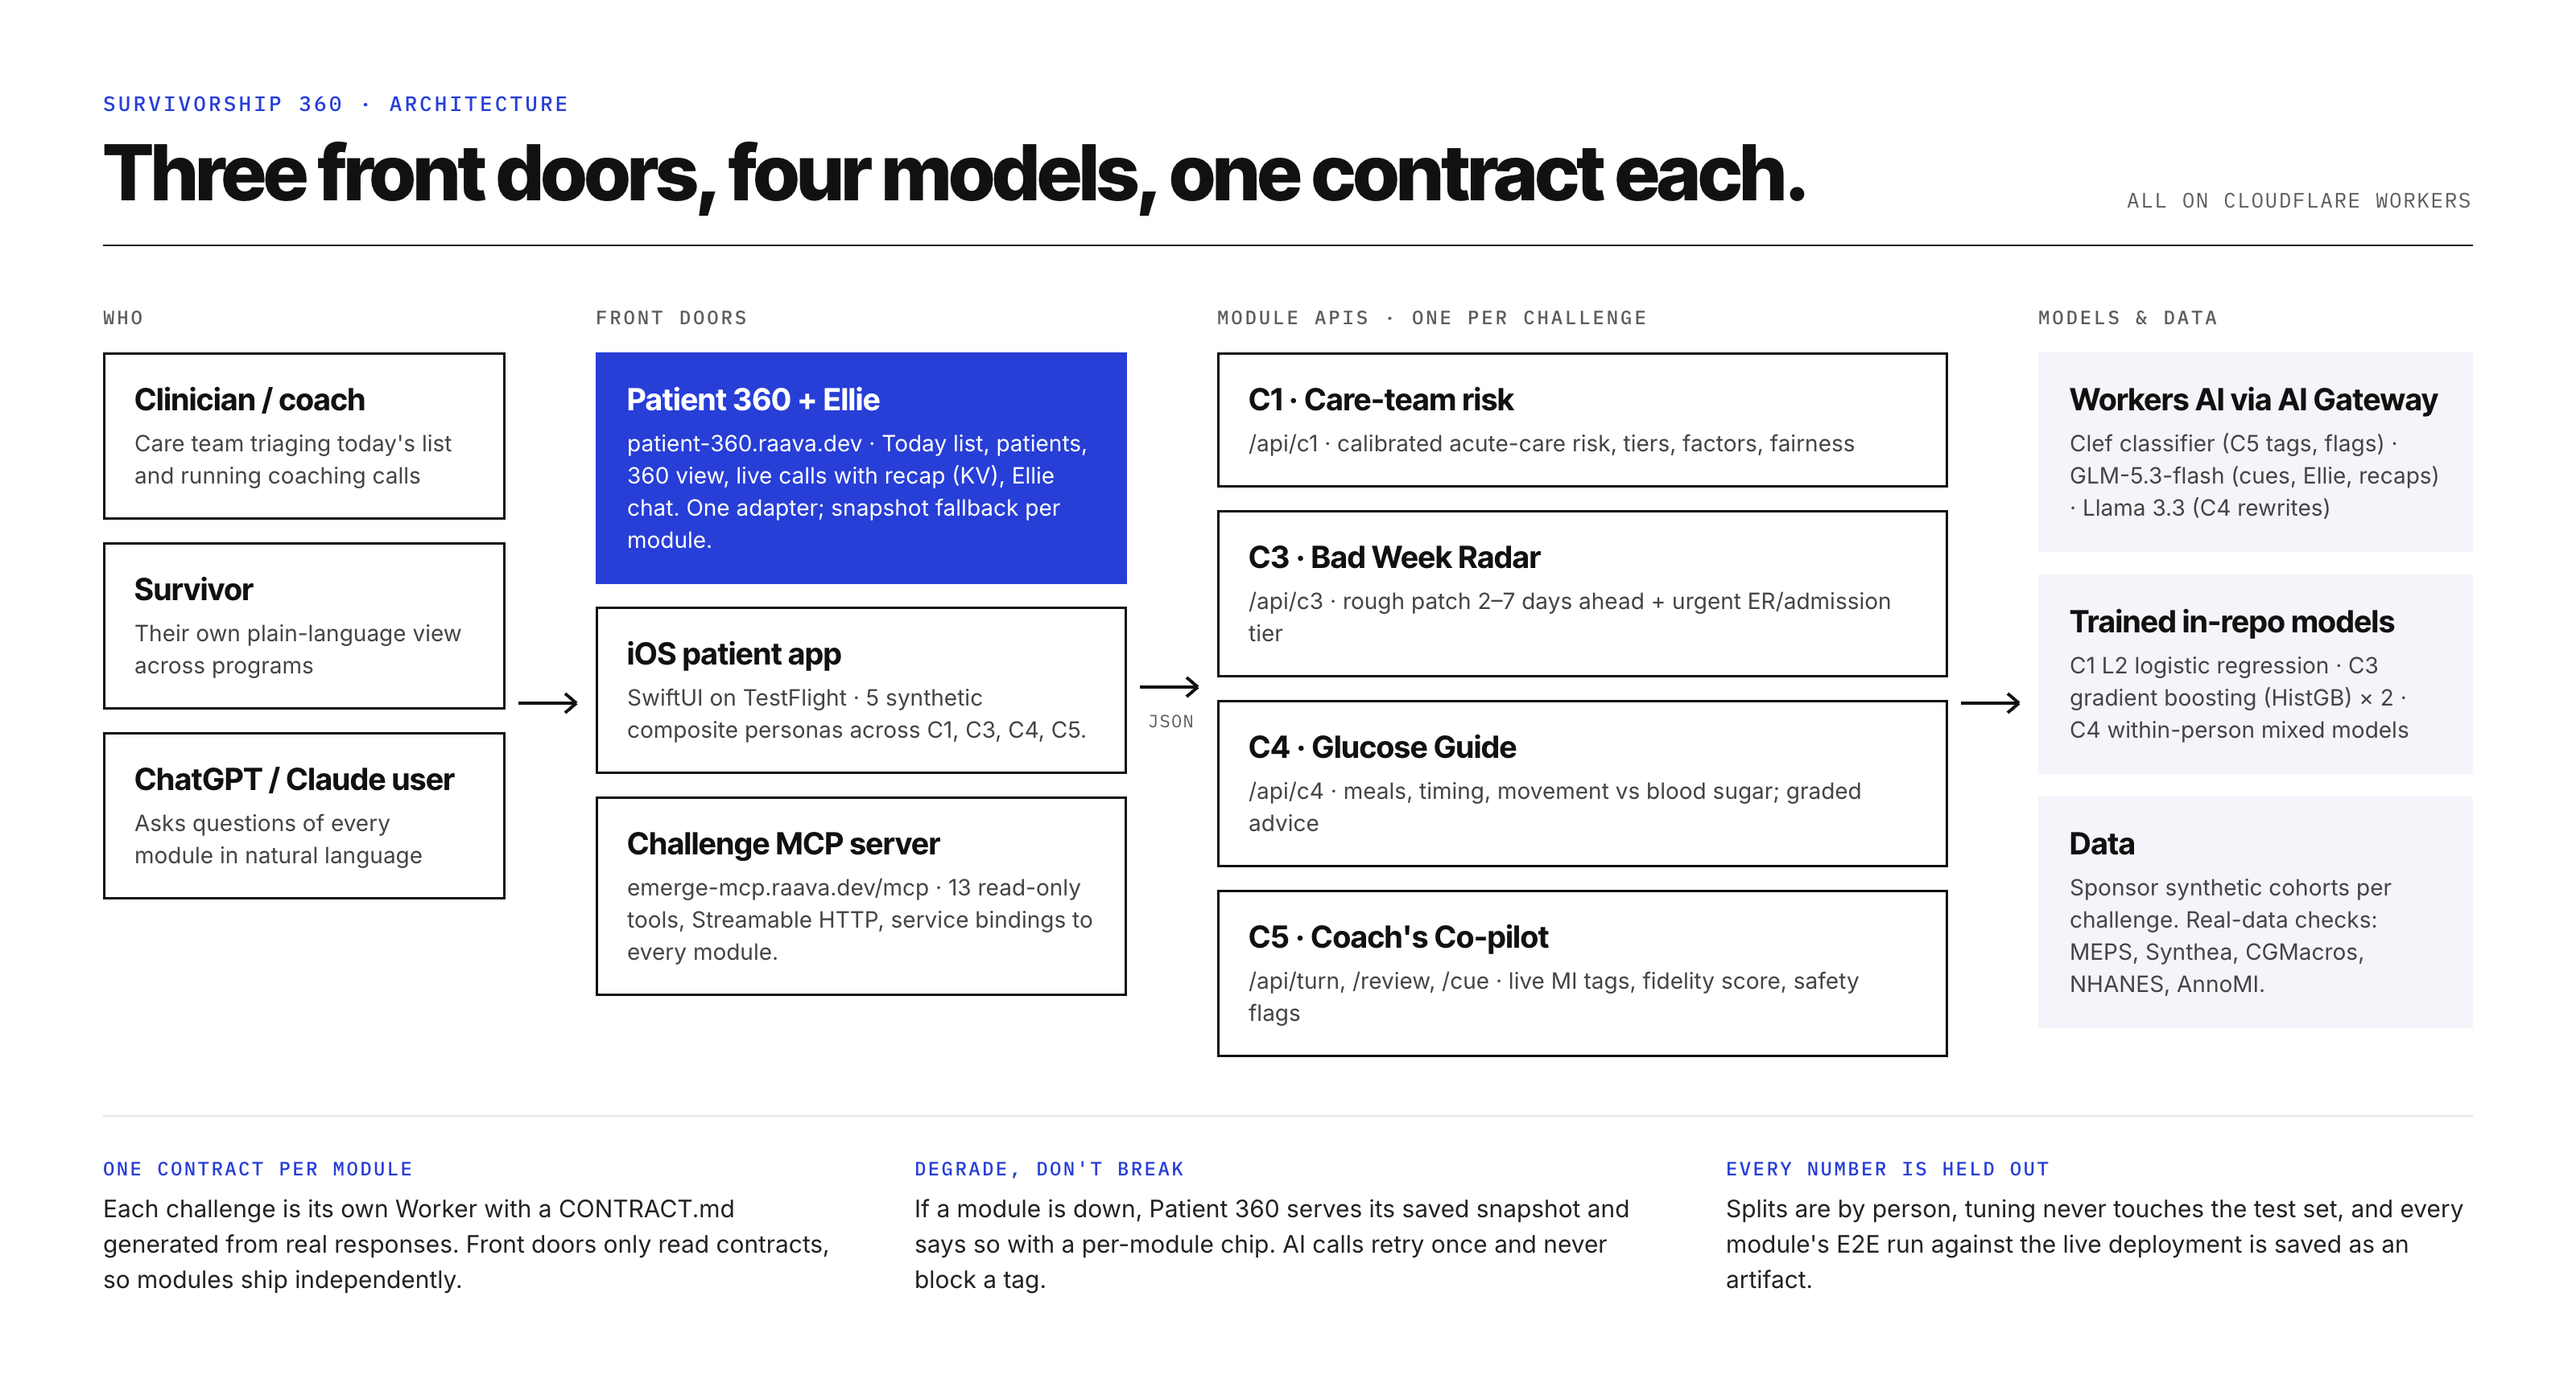
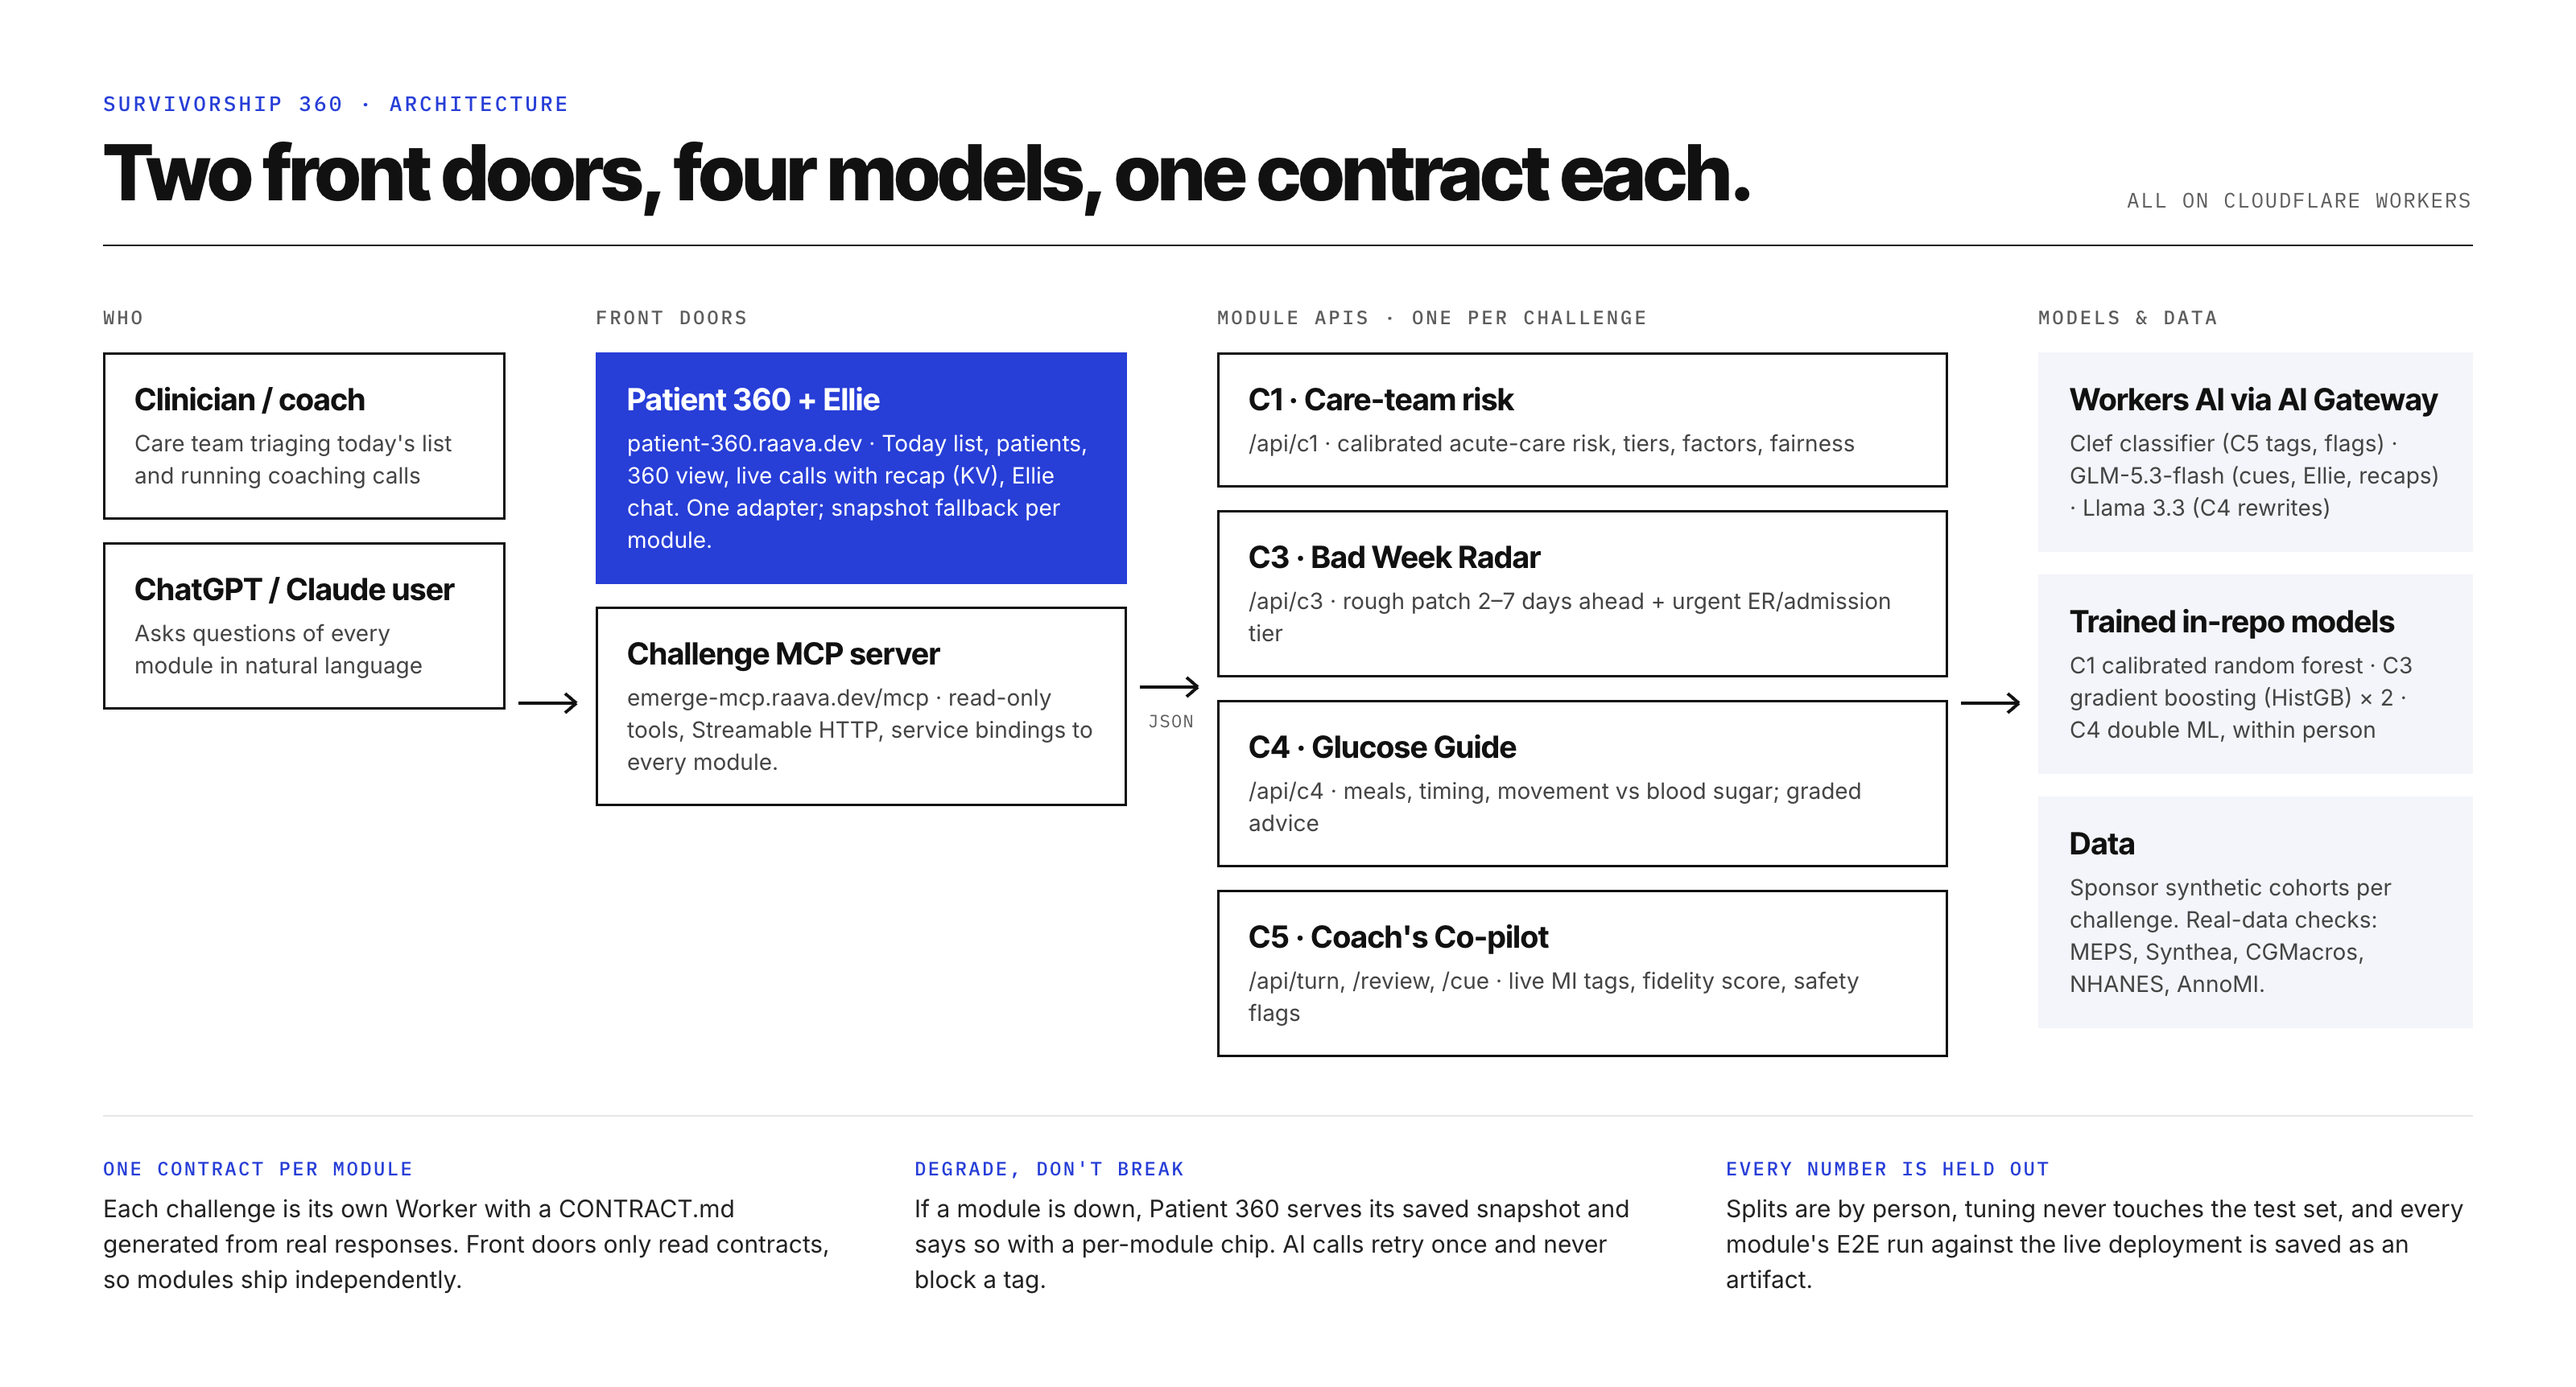
docs: drop the iOS patient app (track abandoned)

diff --git a/README.md b/README.md
@@ -2,7 +2,7 @@
 
 eMerge Hackathon · Sylvester Comprehensive Cancer Center healthcare track · built in one day, everything custom.
 
-**Survivorship 360 gives a cancer-survivorship care team one place to see who needs them today, and why.** It joins four AI modules, one per challenge, into a single clinician console with a chat assistant. A patient-facing iOS app and an MCP server give the same data to survivors and to any AI assistant.
+**Survivorship 360 gives a cancer-survivorship care team one place to see who needs them today, and why.** It joins four AI modules, one per challenge, into a single clinician console with a chat assistant. An MCP server gives the same data to any AI assistant, such as ChatGPT or Claude.
 
 - **Who needs a call today.** A wearable model warns of a rough week 2–7 days ahead. A separate urgent tier flags a likely ER visit or admission.
 - **Who is at risk of acute care.** A calibrated risk model whose probabilities can be trusted at face value.
@@ -21,7 +21,6 @@ Every number in the product traces to a validation run in its module's repo: hel
 | C4 Glucose Guide | https://c4-glucose-guide.zay-259.workers.dev |
 | C5 Coach's Co-pilot | https://coach.raava.dev |
 | MCP server (ChatGPT / Claude) | `https://emerge-mcp.raava.dev/mcp` |
-| iOS patient app | not yet on TestFlight (waiting on the App Store Connect app record) |
 
 ## Modules
 
@@ -33,7 +32,6 @@ Every number in the product traces to a validation run in its module's repo: hel
 | C4 Glucose Guide | C4 dose & timing | Double ML, within person: evening walks, late dinners and overnight fasting vs blood sugar; personal advice only when the person's own data supports it | Evening walk −18.3 mg/dL after dinner (CI 16.6–20.1); each claim tagged with a real-data check | [`c4-glucose-guide`](modules/c4-glucose-guide) |
 | C5 Coach's Co-pilot | C5 coaching conversations | Tags every call line with an MI code in ~0.4 s (Cloudflare Clef), live fidelity score, safety banners, GLM coaching cues | Held out: 93.1% coach moves, 90.9% participant talk on 1,085 calls; 13/13 urgent lines caught | [`coach-copilot`](modules/coach-copilot) |
 | Challenge MCP | all | 13 read-only tools over every module for ChatGPT and Claude, incl. "score this conversation" | E2E 67/67 with the official MCP client | [`challenge-mcp`](modules/challenge-mcp) |
-| Patient app | all | iOS, the survivor's own view across modules, 5 synthetic personas | Simulator build and E2E run locally; TestFlight waits on the App Store Connect app record | not on GitHub yet |
 
 Who owns what: the challenge modules are engines and APIs only (model, data pipeline, validation, `CONTRACT.md`). Patient 360 owns everything users see.
 
@@ -41,7 +39,7 @@ Who owns what: the challenge modules are engines and APIs only (model, data pipe
 
 ![Survivorship 360 architecture](docs/architecture.png)
 
-Each module is its own Cloudflare Worker with a small JSON contract (`CONTRACT.md` in each repo). Patient 360, the MCP server and the iOS app consume only those contracts, and fall back to a saved snapshot when a module is down.
+Each module is its own Cloudflare Worker with a small JSON contract (`CONTRACT.md` in each repo). Patient 360 and the MCP server consume only those contracts. Patient 360 falls back to a saved snapshot when a module is down.
 
 ## How each challenge works
 
